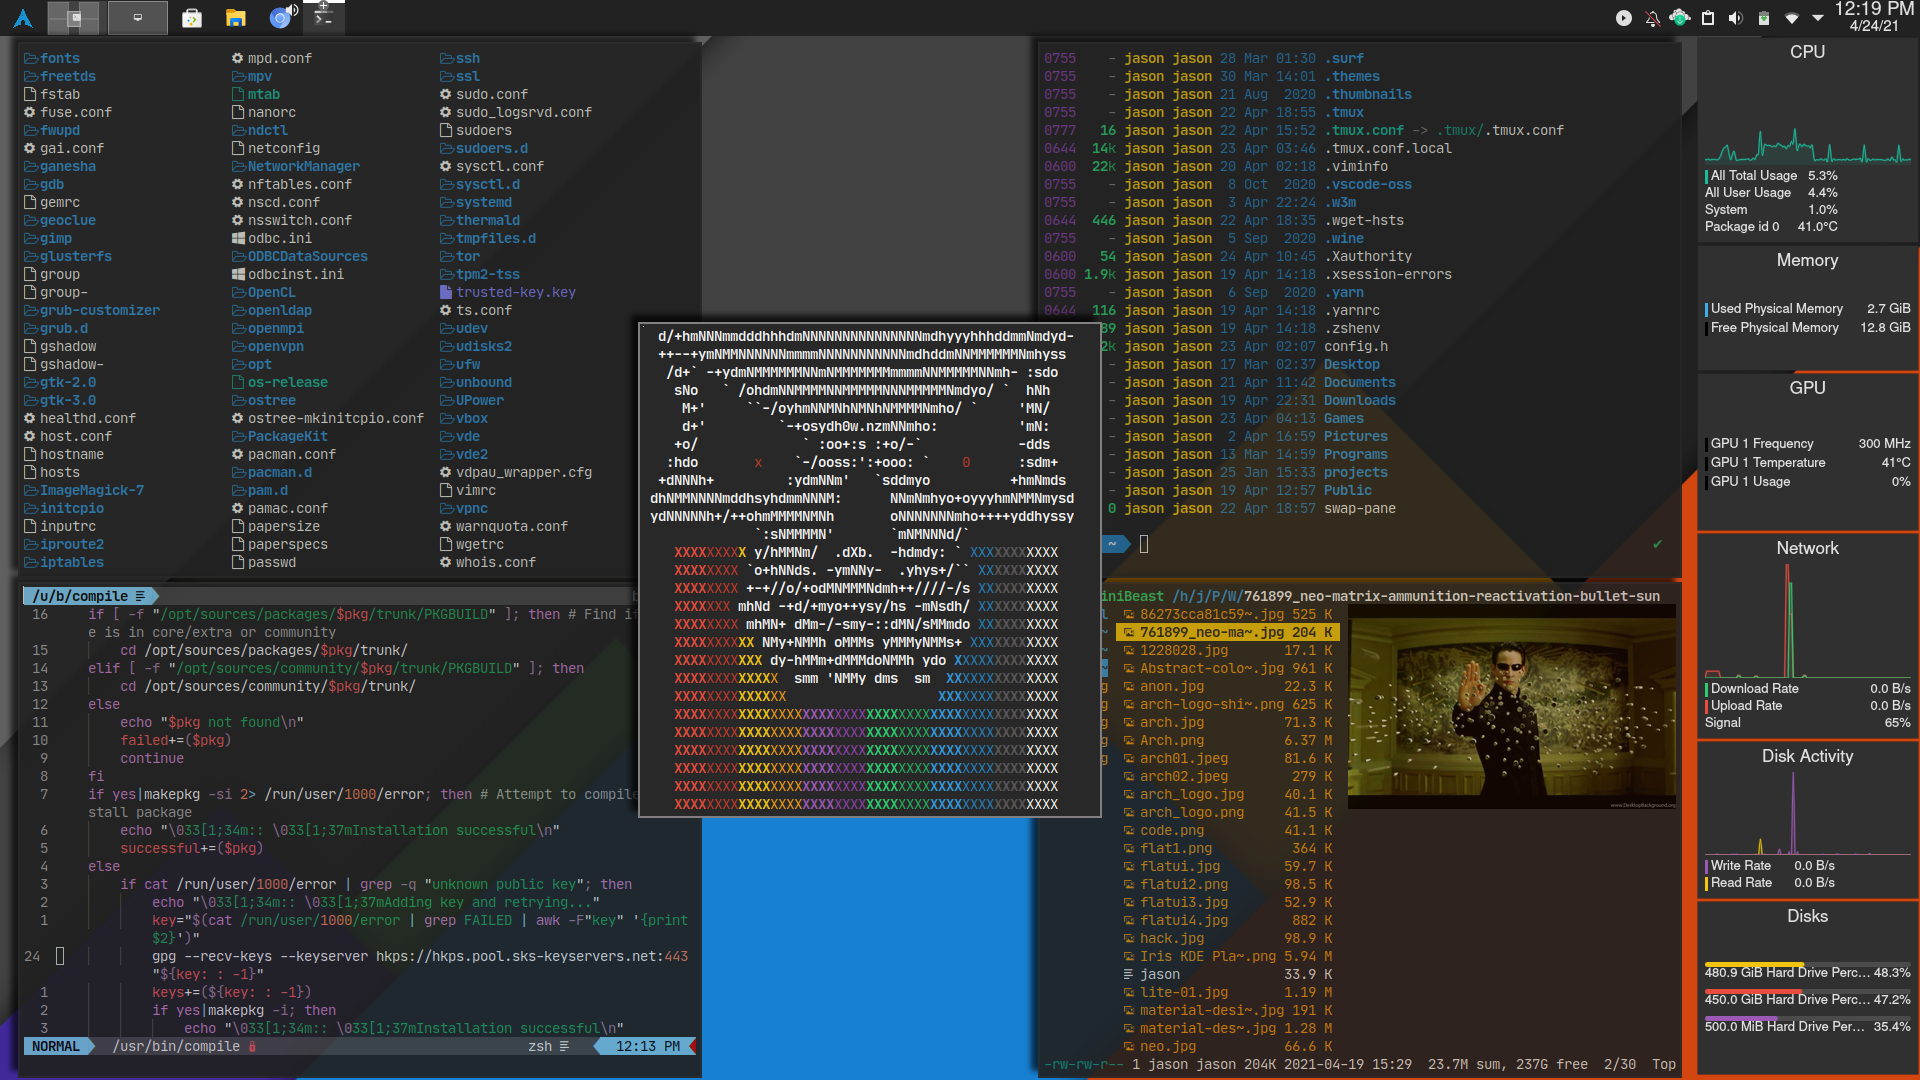
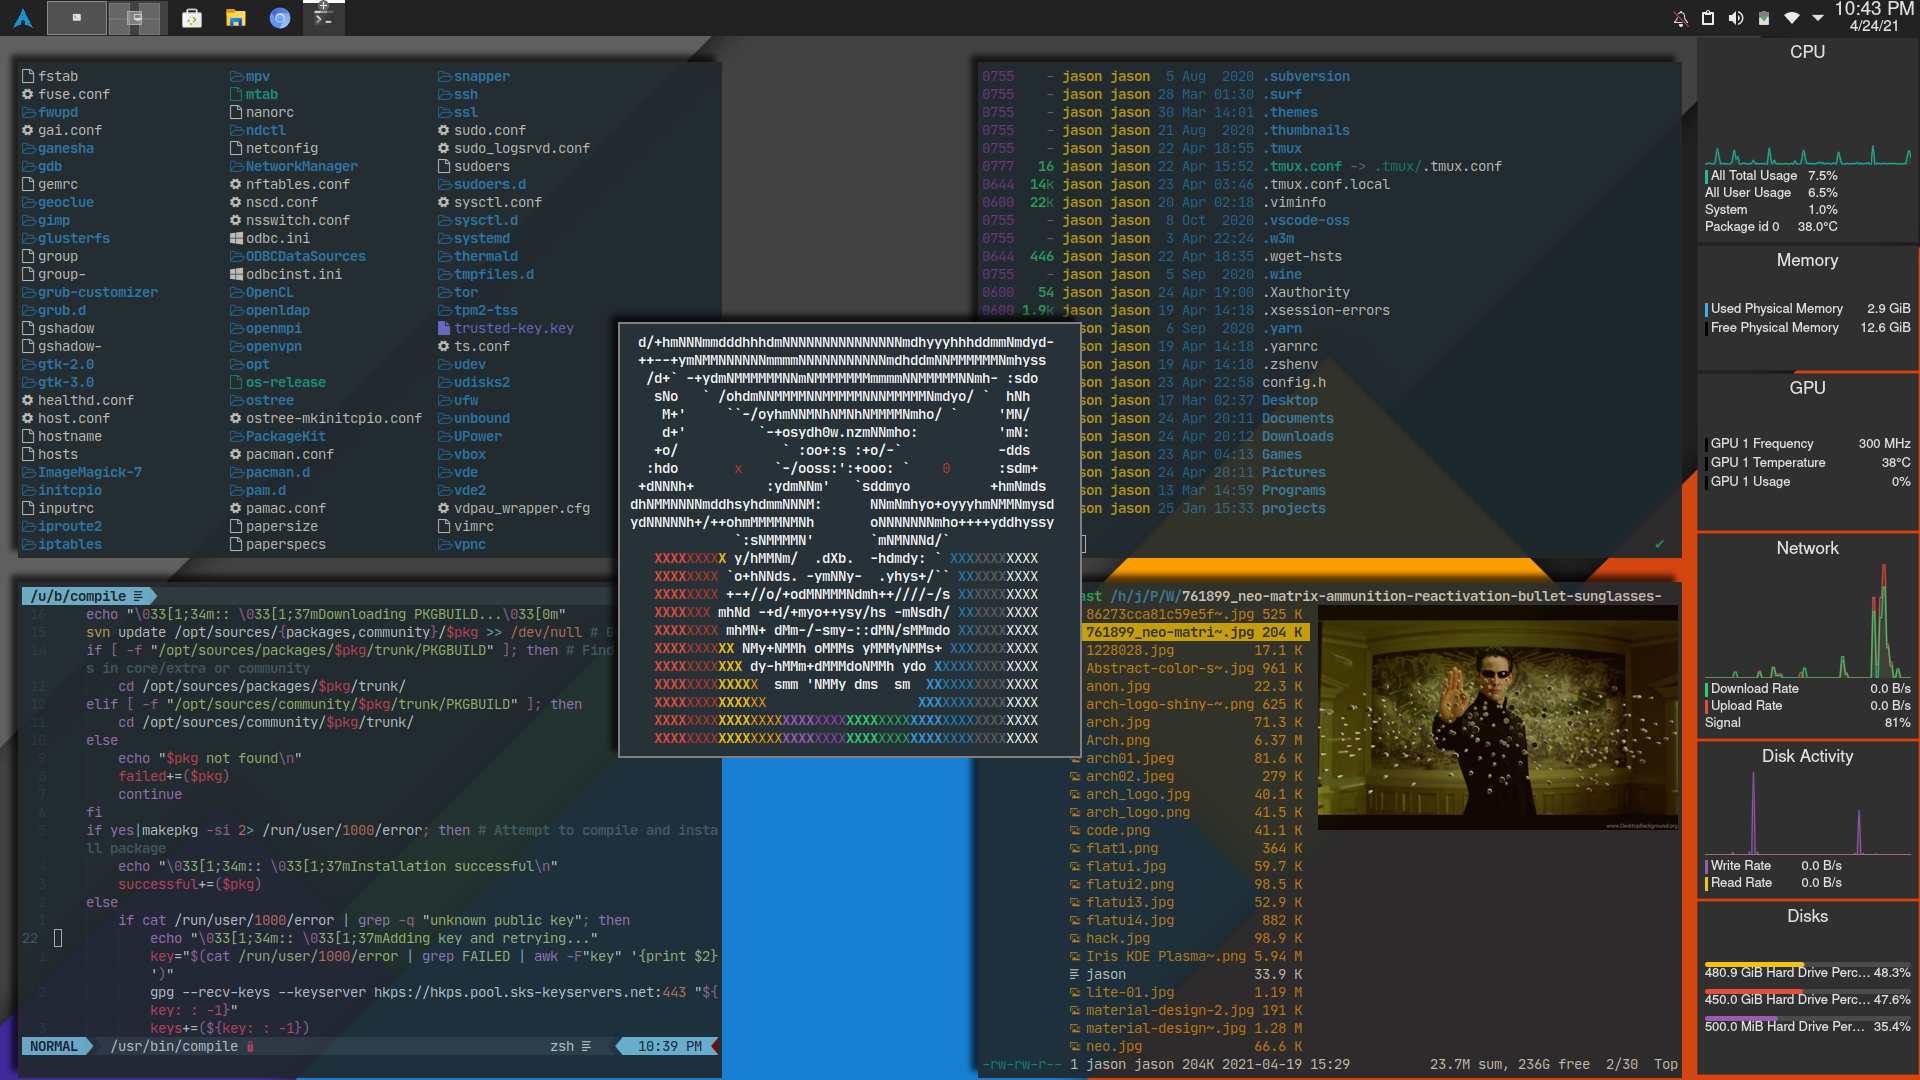
4/24/21

diff --git a/config.h b/config.h
@@ -108,7 +108,7 @@ unsigned int tabspaces = 4;
 static const char *colorname[] = {
 
 /* 8 normal colors */
-  [0] = "#282828", /* black   */
+  [0] = "#263238", /* black   */
   [1] = "#c0392b", /* red     */
   [2] = "#27ae60", /* green   */
   [3] = "#f39c12", /* yellow  */
